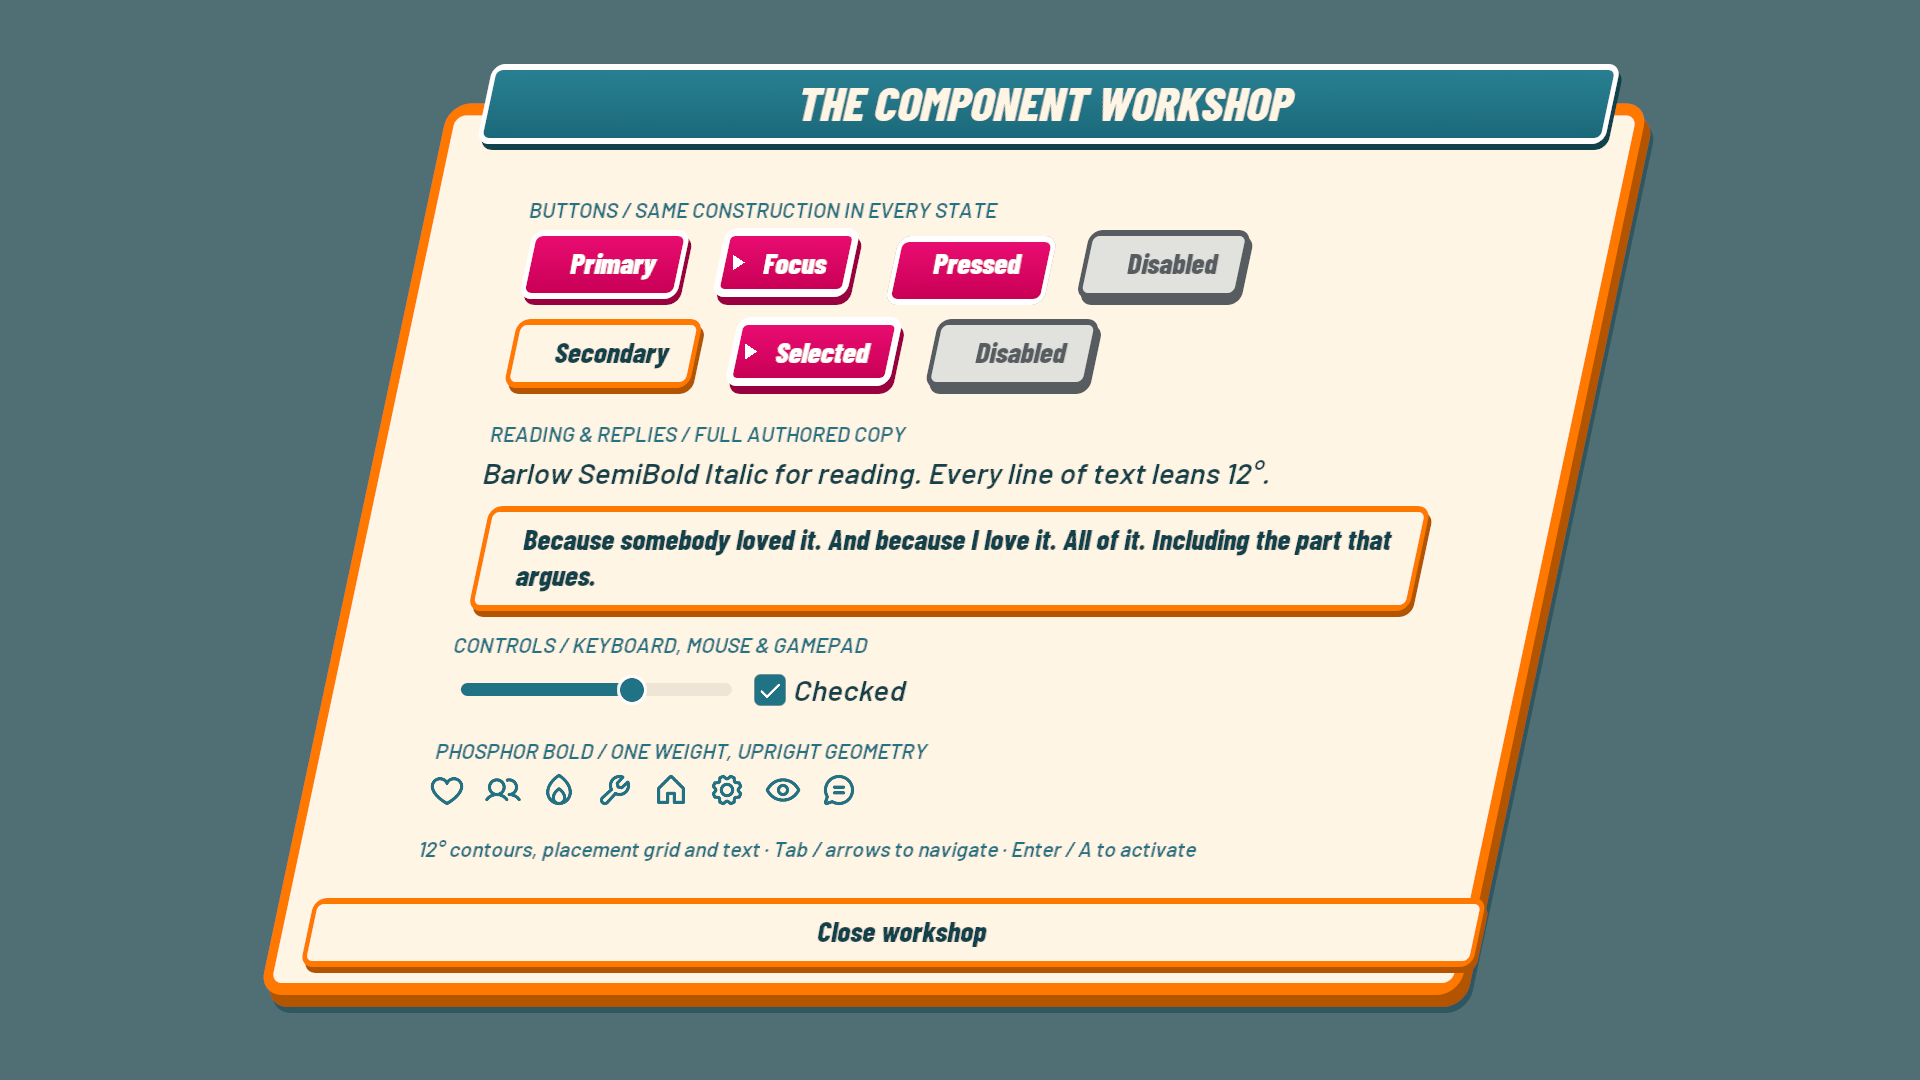
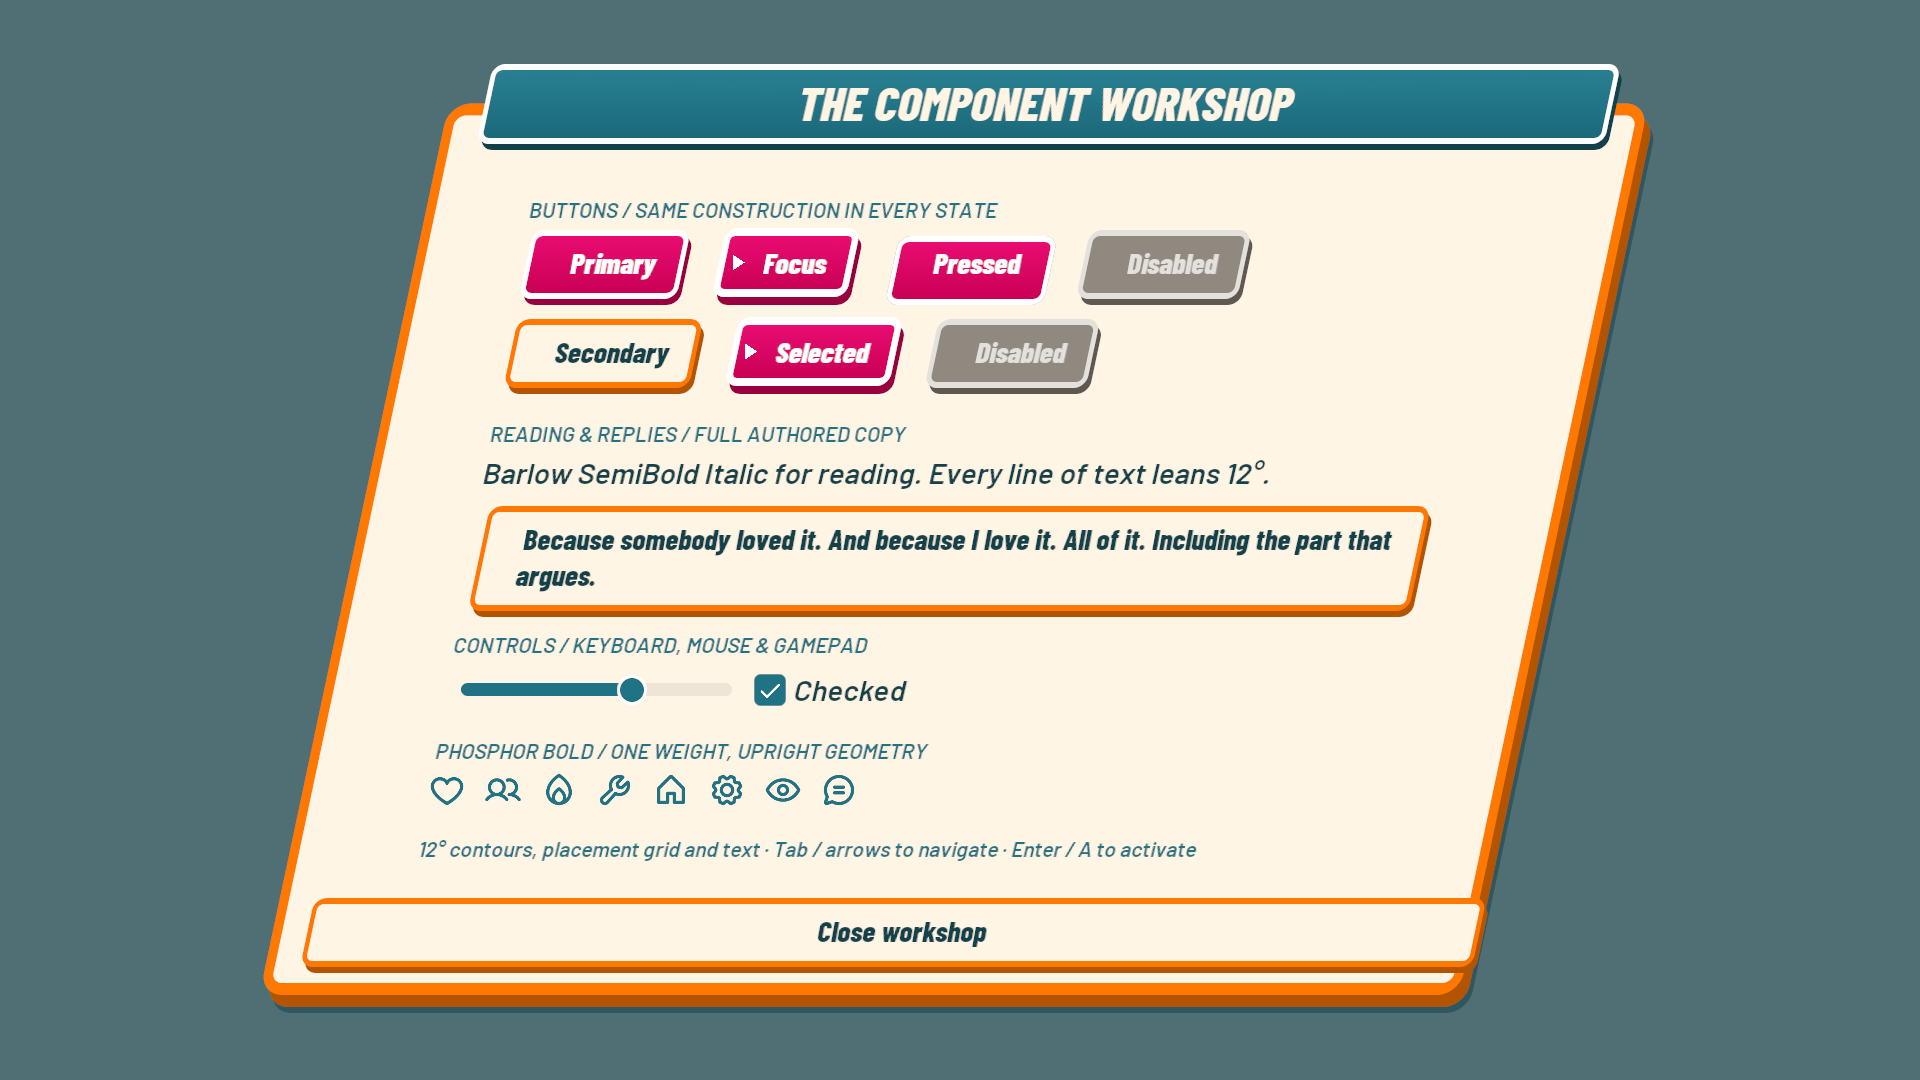
Disabled controls: inverted warm-gray face
Disabled buttons, checkboxes and the name-entry button now show a mid-gray
face inside a light-gray keyline with light-gray labels and icons, over a
dark-gray extrusion. The three grays share one warm hue (~35, like the
cream and orange): #E4E1DD, #90897F, #5E5850. They replace the mismatched
#E1E1DE (warm) and #565C60 (cool).

Changed region(s): [[0.4688, 0.2139, 0.6562, 0.3667]]

diff --git a/Source/ICanFixHim/UI/FixHimDesign.cpp b/Source/ICanFixHim/UI/FixHimDesign.cpp
@@ -97,9 +97,9 @@ void Surface(FSlateWindowElementList &Out, int32 Layer, const FGeometry &G, FLin
 	const FVector2f Offset = Pressed ? DepthOffset(Keyline) : Focused ? FVector2f(0, -2) : FVector2f(0, 0);
 	const bool Reading = Fill.Equals(FixHimDesign::Cream, .015f);
 	const bool PinkFace = Fill.Equals(FixHimDesign::Pink, .015f);
-	const auto Edge = !Enabled ? DisabledInk : Reading ? Orange : FLinearColor::White;
+	const auto Edge = !Enabled ? DisabledLight : Reading ? Orange : FLinearColor::White;
 	// One extrusion layer, no separate shadow: cream extrudes burnt orange, pink a deep pink, everything else ink.
-	const auto Depth = !Enabled ? DisabledInk : Reading ? OrangeDepth : PinkFace ? PinkDepth : Ink;
+	const auto Depth = !Enabled ? DisabledDark : Reading ? OrangeDepth : PinkFace ? PinkDepth : Ink;
 	if (Shadowed)
 	{
 		const FLinearColor Shadow = Ink.CopyWithNewOpacity(ShadowOpacity);
@@ -172,7 +172,7 @@ class SDesignButton : public SButton
 		const bool Enabled = ShouldBeEnabled(E), Focused = Enabled && (HasKeyboardFocus() || Owner->bSelected);
 		const bool Pressed = IsPressed() || Owner->bPreviewPressed;
 		const bool Active = Focused || Pressed || (Enabled && IsHovered());
-		const FLinearColor Fill = !Enabled                    ? Disabled
+		const FLinearColor Fill = !Enabled                    ? DisabledMid
 		                          : Owner->bPrimary || Active ? FixHimDesign::Pink
 		                                                      : FixHimDesign::Cream;
 		// Standalone buttons cast the popup shadow. Buttons with a leading icon skip the focus pointer: it would
@@ -180,7 +180,7 @@ class SDesignButton : public SButton
 		Surface(Out, L, G, Fill, S.GetColorAndOpacityTint(), true, Focused, Pressed, Enabled,
 		        FixHimDesign::ButtonBorder, Owner->bStandalone, !Owner->LeadingIcon);
 		FWidgetStyle ChildStyle = S;
-		ChildStyle.SetForegroundColor(!Enabled ? DisabledInk : Owner->bPrimary || Active ? FLinearColor::White : Ink);
+		ChildStyle.SetForegroundColor(!Enabled ? DisabledLight : Owner->bPrimary || Active ? FLinearColor::White : Ink);
 		// Preserve the specified disabled ink rather than applying Slate's additional gray-out shader.
 		// Input remains disabled on SButton; its labelled content contains no interactive descendants.
 		if (!Enabled)
@@ -205,8 +205,12 @@ class SDesignCheckBox : public SCheckBox
 	{
 		using namespace FixHimDesign;
 		const bool Focus = HasKeyboardFocus();
-		const FLinearColor Fill = !ShouldBeEnabled(E) ? Disabled : IsChecked() ? FixHimDesign::Teal : FixHimDesign::Cream;
-		auto Box = FixHimUI::Rounded(Fill, 7, Focus || IsHovered() ? FixHimDesign::Pink : Teal, Focus ? 4 : 3);
+		const FLinearColor Fill = !ShouldBeEnabled(E) ? DisabledMid : IsChecked() ? FixHimDesign::Teal : FixHimDesign::Cream;
+		auto Box = FixHimUI::Rounded(Fill, 7,
+		                             !ShouldBeEnabled(E)       ? DisabledLight
+		                             : Focus || IsHovered() ? FixHimDesign::Pink
+		                                                    : Teal,
+		                             Focus ? 4 : 3);
 		FSlateDrawElement::MakeBox(Out, L, G.ToPaintGeometry(FVector2f(32, 32), FSlateLayoutTransform(FVector2f(8, 8))),
 		                           &Box, ESlateDrawEffect::None, Box.GetTint(S) * S.GetColorAndOpacityTint());
 		if (IsChecked())
@@ -275,7 +279,7 @@ TSharedRef<SWidget> UFixHimButton::RebuildWidget()
 	        .ForegroundColor_Lambda([this]() -> FSlateColor {
 		        if (!bDesignSurface)
 			        return FSlateColor::UseForeground();
-		        return FSlateColor(!GetIsEnabled() ? FixHimDesign::DisabledInk
+		        return FSlateColor(!GetIsEnabled() ? FixHimDesign::DisabledLight
 				                   : bPrimary || bSelected || bPreviewPressed || IsHovered() || HasKeyboardFocus()
 		                               ? FLinearColor::White
 									   : FixHimDesign::Ink);

diff --git a/Source/ICanFixHim/UI/FixHimDesign.h b/Source/ICanFixHim/UI/FixHimDesign.h
@@ -19,8 +19,13 @@ inline const FLinearColor Pink = FLinearColor::FromSRGBColor(FColor::FromHex(TEX
 inline const FLinearColor PinkDepth = FLinearColor::FromSRGBColor(FColor::FromHex(TEXT("99003F")));
 inline const FLinearColor OrangeDepth = FLinearColor::FromSRGBColor(FColor::FromHex(TEXT("B35500"))); // keyline orange at 70% value, same hue
 inline const FLinearColor Friendship = FLinearColor::FromSRGBColor(FColor::FromHex(TEXT("76CADB")));
-inline const FLinearColor Disabled = FLinearColor::FromSRGBColor(FColor::FromHex(TEXT("E1E1DE")));
-inline const FLinearColor DisabledInk = FLinearColor::FromSRGBColor(FColor::FromHex(TEXT("565C60")));
+/**
+ * Disabled controls invert to a mid-gray face inside a light-gray keyline, with light-gray labels and icons, over a
+ * dark-gray extrusion. All three are one warm gray (hue ~35, like the cream and orange) at different lightness.
+ */
+inline const FLinearColor DisabledLight = FLinearColor::FromSRGBColor(FColor::FromHex(TEXT("E4E1DD")));
+inline const FLinearColor DisabledMid = FLinearColor::FromSRGBColor(FColor::FromHex(TEXT("90897F")));
+inline const FLinearColor DisabledDark = FLinearColor::FromSRGBColor(FColor::FromHex(TEXT("5E5850")));
 inline const FLinearColor Scrim = Ink.CopyWithNewOpacity(.72f);
 inline constexpr float Slant = 0.2125565617f;        // tan(12 degrees)
 // Text is set in upright faces and sheared the full 12 degrees, so glyphs and wrapped lines both follow the grid.

diff --git a/Source/ICanFixHim/UI/FixHimUI.cpp b/Source/ICanFixHim/UI/FixHimUI.cpp
@@ -84,8 +84,8 @@ FButtonStyle ButtonStyle(const FLinearColor &Normal, const FLinearColor &Hovered
 	Style.SetNormal(Rounded(Normal, Radius, Outline, Outline.A > 0.f ? 2.f : 0.f));
 	Style.SetHovered(Rounded(Hovered, Radius, Outline, Outline.A > 0.f ? 2.f : 0.f));
 	Style.SetPressed(Rounded(Pressed, Radius, Outline, Outline.A > 0.f ? 2.f : 0.f));
-	Style.SetDisabled(Rounded(FixHimDesign::Disabled, Radius, FixHimDesign::DisabledInk, 2));
-	Style.SetDisabledForeground(FSlateColor(FixHimDesign::DisabledInk));
+	Style.SetDisabled(Rounded(FixHimDesign::DisabledMid, Radius, FixHimDesign::DisabledLight, 2));
+	Style.SetDisabledForeground(FSlateColor(FixHimDesign::DisabledLight));
 	Style.SetNormalPadding(FMargin(0));
 	const FVector2f Press = FixHimDesign::DepthOffset(FixHimDesign::ButtonBorder);
 	Style.SetPressedPadding(FMargin(Press.X, Press.Y, -Press.X, -Press.Y)); // follows the face's press offset
@@ -238,7 +238,7 @@ FLinearColor UFixHimButton::GetIconTint()
 	using namespace FixHimDesign;
 	for (const UWidget *W = this; W; W = W->GetParent())
 		if (!W->GetIsEnabled())
-			return DisabledInk; // a disabled container disables the face too (SDesignButton::OnPaint)
+			return DisabledLight; // a disabled container disables the face too (SDesignButton::OnPaint)
 	const bool Active = HasKeyboardFocus() || bSelected || IsPressed() || bPreviewPressed || IsHovered();
 	return bPrimary || Active ? FLinearColor::White : Orange;
 }

diff --git a/Source/ICanFixHim/UI/FixHimMenus.cpp b/Source/ICanFixHim/UI/FixHimMenus.cpp
@@ -192,7 +192,7 @@ void UFixHimNameEntryWidget::BuildUI()
 	    24, true);
 	// Greyed out (not just faded pink) while the name is empty.
 	FButtonStyle BStyle = MoveInButton->GetStyle();
-	BStyle.SetDisabled(Rounded(FixHimDesign::Disabled, 12));
+	BStyle.SetDisabled(Rounded(FixHimDesign::DisabledMid, 12, FixHimDesign::DisabledLight, 2));
 	MoveInButton->SetStyle(BStyle);
 	MoveInButton->SetIsEnabled(false);
 	Box->AddChild(MoveInButton);

diff --git a/docs/03 Art & Audio/UI Design System.md b/docs/03 Art & Audio/UI Design System.md
@@ -33,8 +33,9 @@ The teal was shifted cooler and made lighter; friendship shares its approximatel
 | Pink | `#D9005C` | Primary actions, romance, focused replies |
 | White | `#FFFFFF` | Text on teal/pink, separation keylines |
 | Friendship | `#76CADB` | Friendship meter and cool accent |
-| Disabled surface | `#E1E1DE` | Disabled controls |
-| Disabled ink | `#565C60` | Disabled labels and icons |
+| Disabled light | `#E4E1DD` | Disabled keylines, labels and icons |
+| Disabled mid | `#90897F` | Disabled faces (inverted: mid face inside a light keyline) |
+| Disabled dark | `#5E5850` | Disabled extrusions |
 
 Use subtle vertical gradients, lighter top to darker bottom:
 
